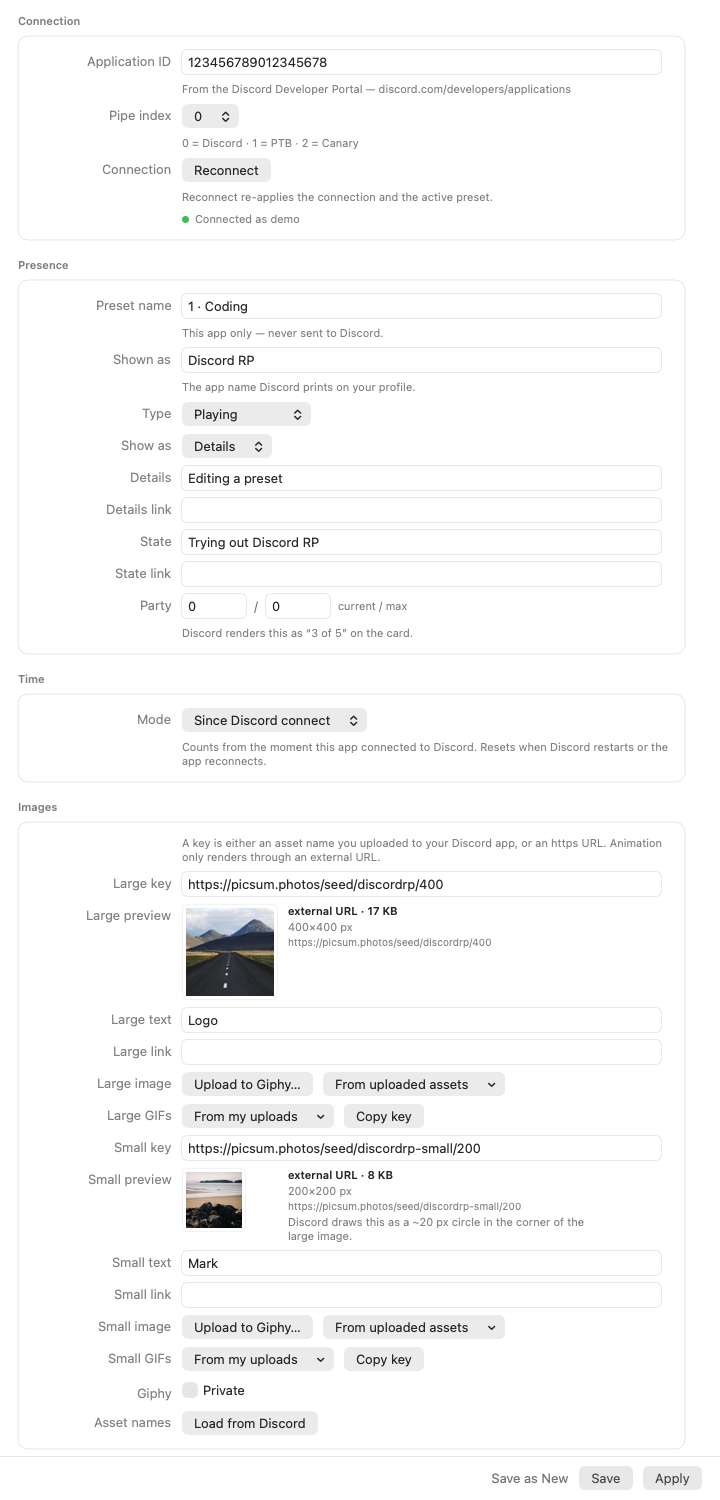
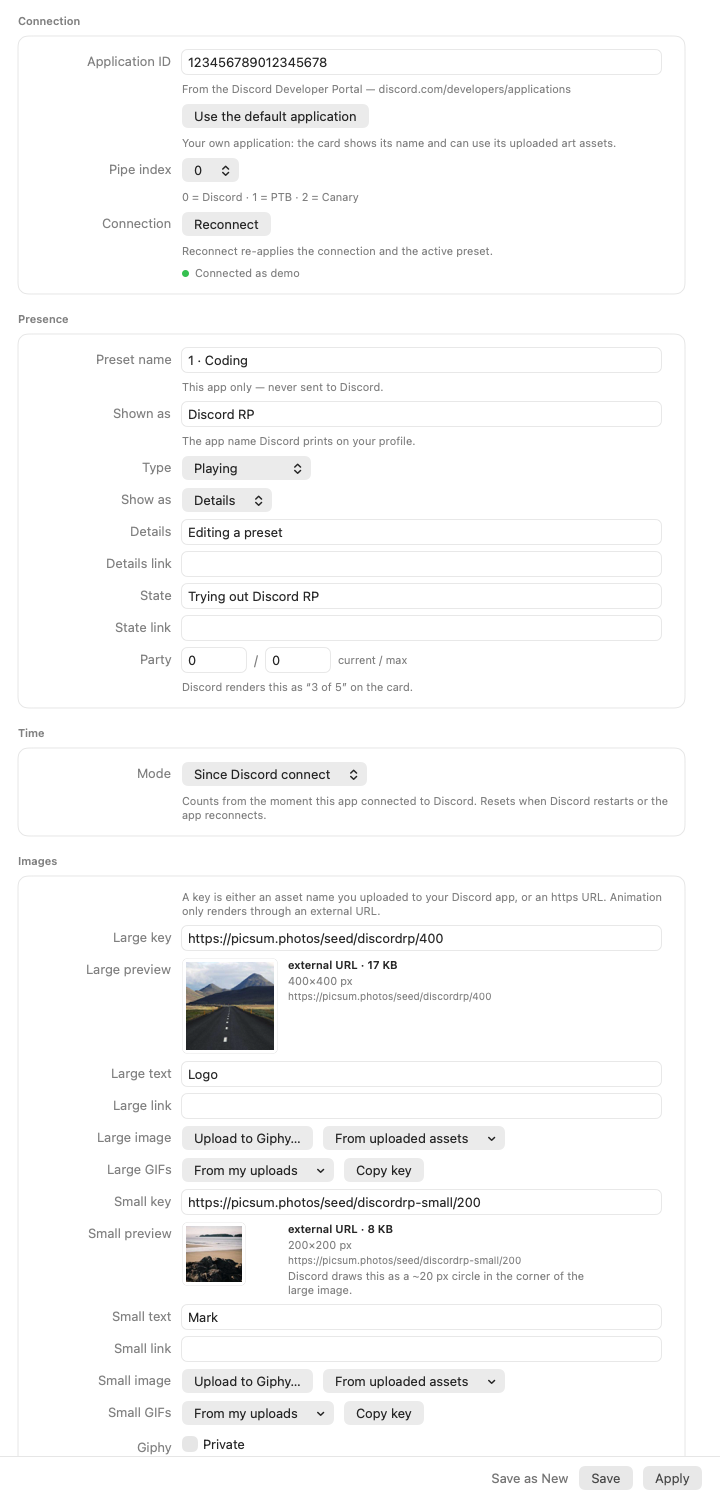
fix: render screenshots without the real Keychain, in a pinned appearance

diff --git a/Sources/DiscordRPMac/SelfTest.swift b/Sources/DiscordRPMac/SelfTest.swift
@@ -85,6 +85,14 @@ enum SelfTest {
             }
             return 0
         }
+        if let index = args.firstIndex(of: "--check-updates") {
+            // An optional version after the flag stands in for the running one, so the "newer
+            // release" branch can be exercised against the real API.
+            let current = index + 1 < args.count && !args[index + 1].hasPrefix("--")
+                ? args[index + 1]
+                : Version.string
+            return checkForUpdates(current: current)
+        }
         if let index = args.firstIndex(of: "--presets") {
             let directory = index + 1 < args.count && !args[index + 1].hasPrefix("--") ? args[index + 1] : nil
             return dumpPresetPayloads(directory: directory)
@@ -260,12 +268,15 @@ enum SelfTest {
     /// permission and still yields real pixels to inspect the layout with.
     private static func renderEditor(to path: String, width: Double, height: Double) -> Int32 {
         let render: @MainActor () -> Void = {
-            if CommandLine.arguments.contains("--no-key") {
-                // The "no key yet" state, so the BYOK gating can be verified as pixels.
-                GiphyKeyStore.storage = NoGiphyKeyStorage()
-                setenv("GIPHY_API_KEY", "", 1)
-                GiphyKeyStore.legacyPathOverride = "/nonexistent/giphy/api_key"
-            }
+            // A render must never read the developer's real Keychain: the binary is ad-hoc signed, so
+            // every rebuild changes its identity, macOS raises an ACL prompt, and the render blocks in
+            // `mach_msg` until somebody answers a dialog it cannot show. Stub storage instead; with
+            // `--no-key` the stub is swapped for the empty one so the BYOK gating can be seen.
+            GiphyKeyStore.storage = CommandLine.arguments.contains("--no-key")
+                ? NoGiphyKeyStorage()
+                : StubGiphyKeyStorage()
+            setenv("GIPHY_API_KEY", "", 1)
+            GiphyKeyStore.legacyPathOverride = "/nonexistent/giphy/api_key"
             let model = demoModel()
             capture(NSHostingView(rootView: ActivityEditorView(model: model)),
                     titled: true, to: path, width: width, height: height, settle: 3.0)
@@ -320,6 +331,10 @@ enum SelfTest {
     private static func capture(_ hosting: NSView, titled: Bool, to path: String,
                                 width: Double, height: Double, settle: TimeInterval) {
         let frame = NSRect(x: 0, y: 0, width: width, height: height)
+        // Pin the appearance. The harness used to follow the system theme, so regenerating the
+        // screenshots at night produced dark images while the committed ones were light, and the two
+        // README screenshots could disagree. Switch to `.darkAqua` to ship dark ones.
+        hosting.appearance = NSAppearance(named: .aqua)
         hosting.frame = frame
         let window = NSWindow(contentRect: frame, styleMask: titled ? [.titled] : [.borderless],
                               backing: .buffered, defer: false)
@@ -347,6 +362,27 @@ enum SelfTest {
         } catch {
             print("render failed: \(error.localizedDescription)")
         }
+    }
+
+    /// `--check-updates` — the same call the menu makes, so the network path can be verified
+    /// headlessly instead of by clicking a menu item.
+    private static func checkForUpdates(current: String) -> Int32 {
+        var exit: Int32 = 0
+        let done = DispatchSemaphore(value: 0)
+        Task.detached {
+            switch await UpdateCheck.fetchLatest(current: current) {
+            case .upToDate(let current):
+                print("up to date (\(current))")
+            case .newer(let version, let url):
+                print("update available: \(version) — \(url.absoluteString)")
+            case .failed(let reason):
+                print("check failed: \(reason)")
+                exit = 1
+            }
+            done.signal()
+        }
+        done.wait()
+        return exit
     }
 
     /// `--presets [support-dir]` prints, for every stored preset, the exact SET_ACTIVITY payload the

diff --git a/Sources/DiscordRP/GiphyKeyStore.swift b/Sources/DiscordRP/GiphyKeyStore.swift
@@ -135,6 +135,19 @@ public struct NoGiphyKeyStorage: GiphyKeyStorage {
     public func delete() {}
 }
 
+/// A storage that reports a key without holding one, so a headless render can show the "a key is
+/// present" state without reading the developer's real Keychain.
+///
+/// A render that reads the real Keychain **hangs**: the binary's ad-hoc signature changes on every
+/// rebuild, so macOS raises a fresh ACL prompt, and the render blocks in `mach_msg` inside
+/// `SecurityAgent` until somebody answers a dialog nobody can see. Same failure the app had at startup.
+public struct StubGiphyKeyStorage: GiphyKeyStorage {
+    public init() {}
+    public func read() -> String? { "stub-key-for-rendering" }
+    public func write(_ value: String) throws {}
+    public func delete() {}
+}
+
 public enum GiphyKeyStore {
     private static let storageLock = NSLock()
     nonisolated(unsafe) private static var backingStorage: GiphyKeyStorage = KeychainGiphyKeyStorage()
